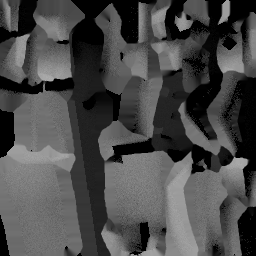
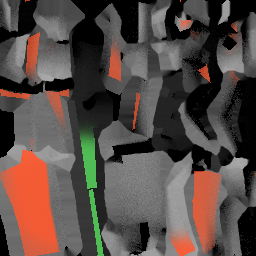
Colors

diff --git a/src/core/battlefield.rs b/src/core/battlefield.rs
@@ -20,20 +20,20 @@ impl Battlefield {
         let mut battlefield = Battlefield {
             indivs,
             map_size: Size2 { w: 5, h: 5 },
-            next_indiv_id : 0,
+            next_indiv_id: 0,
         };
         for i in 0..5 {
             for j in 0..5 {
-            battlefield.add_indiv_at(Position::new(i as f64, j as f64));
+                battlefield.add_indiv_at(Position::new(i as f64, j as f64));
             }
         }
         battlefield
     }
 
-    fn add_indiv_at(&mut self, pos: Position){
+    fn add_indiv_at(&mut self, pos: Position) {
         let id = self.next_indiv_id;
-        self.add_indiv(&Indiv{
-            id: IndivId { id  },
+        self.add_indiv(&Indiv {
+            id: IndivId { id },
             pos,
             rot: Rad(0.0),
             player_id: 0, // Replace by PlayerID?

diff --git a/src/mesh.rs b/src/mesh.rs
@@ -53,7 +53,7 @@ impl Mesh {
         };
         let vertices = [v1, v2, v3, v4];
         let indices: [u16; 6] = [0, 1, 2, 2, 0, 3];
-        let texture = create_flat_texture(context, Size2 { w: 8, h: 8 }, [255, 255, 255, 120]);
+        let texture = create_flat_texture(context, Size2 { w: 4, h: 4 }, [255, 120, 20, 180]);
 
         Mesh::new(context, &vertices, &indices, texture)
     }

diff --git a/src/scene.rs b/src/scene.rs
@@ -121,6 +121,7 @@ impl Scene {
             },
         );
         context.set_mvp(m);
+        context.set_basic_color([1.0, 1.0, 1.0, 1.0]);
         context.draw_mesh(&mesh);
     }
 
